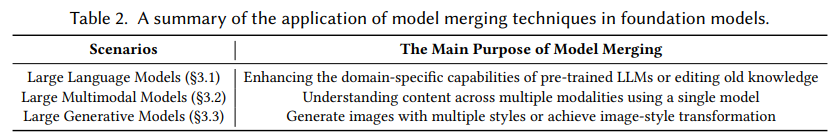
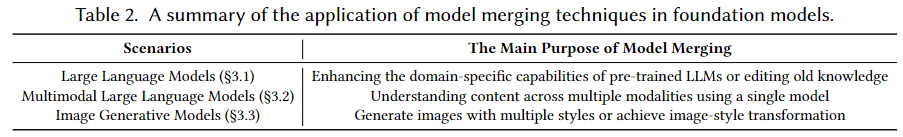
update structure

diff --git a/README.md b/README.md
@@ -1,8 +1,8 @@
-# Awesome-Model-Merging-in-Machine-Learning
+# Awesome-Model-Merging-Methods-Theories-Applications
 [![Awesome](https://awesome.re/badge.svg)]()
 <img src="https://img.shields.io/badge/Contributions-Welcome-278ea5" alt=""/>
 
-A comprehensive list of papers about **'[Model Merging in LLMs, LMMs, LGMs and Beyond: Methods, Theories, Applications and Opportunities. Arxiv, 2024.]()'**.
+A comprehensive list of papers about **'[Model Merging in LLMs, MLLMs, and Beyond: Methods, Theories, Applications and Opportunities. Arxiv, 2024.]()'**.
 
 ## Abstract
 > Model merging is an efficient empowerment technique in the machine learning community that does not require the collection of raw training data and does not require expensive computation. As model merging becomes increasingly prevalent across various fields, it is crucial to understand the available model merging techniques comprehensively. However, there is a significant gap in the literature regarding a systematic and thorough review of these techniques. To address this gap, this survey provides a comprehensive overview of model merging methods and theories, their applications in various domains and settings, and future research directions. Specifically, we first propose a new taxonomic approach that exhaustively discusses existing model merging methods. Secondly, we discuss the application of model merging techniques in large language models, large multimodal models, large generative models and 10+ machine learning settings, including continual learning, multi-task learning, few-shot learning, etc. Finally, we highlight the remaining challenges of model merging and discuss future research directions.
@@ -16,7 +16,7 @@ A comprehensive list of papers about **'[Model Merging in LLMs, LMMs, LGMs and B
 If you find our paper or this resource helpful, please consider cite:
 ```
 @article{Survery_ModelMerging_2024,
-  title={Model Merging in LLMs, LMMs, LGMs and Beyond: Methods, Theories, Applications and Opportunities},
+  title={Model Merging in LLMs, MLLMs, and Beyond: Methods, Theories, Applications and Opportunities},
   author={Yang, Enneng; Shen, Li; Guo, Guibing; Wang, Xingwei; Cao, Xiaochun; Zhang, Jie and Tao, Dacheng},
   journal={arXiv},
   year={2024}
@@ -28,51 +28,55 @@ Thanks!
 
 
 ## Framework
-- [Advanced Methods](#advanced-methods)
-  * [Pre-Merging Methods](#pre-merging-methods)
-    + [Linearization Fine-tuning](#linearization-fine-tuning)
-    + [Weight Alignment](#weight-alignment)
-    + [Architecture Transformation](#architecture-transformation)
-  * [During Merging Methods](#during-merging-methods)
-    + [Basic Merging Methods](#basic-merging-methods)
-    + [Weighted-based Merging Methods](#weighted-based-merging-methods)
-    + [Subspace-based Merging Methods](#subspace-based-merging-methods)
-    + [Routing-based Merging Methods](#routing-based-merging-methods)
-    + [Post-calibration based Methods](#post-calibration-based-methods)
-  * [Theories and Analysis of Model Merging](#theories-and-analysis-of-model-merging)
-- [Model Merging in Foundation Models](#model-merging-in-foundation-models)
-  * [Model Merging in Large Language Model](#model-merging-in-large-language-model)
-    + [Human Preference Alignment for LLMs](#human-preference-alignment-for-llms)
-    + [Detoxifcation of LLMs](#detoxifcation-of-llms)
-    + [Knowledge Unlearning of LLMs](#knowledge-unlearning-of-llms)
-    + [Faster Training of LLMs](#faster-training-of-llms)
-    + [Combine the Capabilities of Expert LLMs](#combine-the-capabilities-of-expert-llms)
-  * [Model Merging in Large Multi-Modal Model](#model-merging-in-large-multi-modal-model)
-    + [Model Merging for Multimodal Fusion](#model-merging-for-multimodal-fusion)
-    + [Model Merging for Cross-Modal Knowledge Transfer](#model-merging-for-cross-modal-knowledge-transfer)
-  * [Model Merging in Large Generative Models](#model-merging-in-large-generative-models)
-    + [Style Mixing in Generative Models](#style-mixing-in-generative-models)
-    + [Reducing Training Cost of Generative Models](#reducing-training-cost-of-generative-models)
-    + [Enhancing the Faithfulness of Diffusion Models](#enhancing-the-faithfulness-of-diffusion-models)
-- [Model Merging in Different Machine Learning Settings](#model-merging-in-different-machine-learning-settings)
-  * [Model Merging in Continual Learning](#model-merging-in-continual-learning)
-    + [Model Merging to Mitigate Catastrophic Forgetting](#model-merging-to-mitigate-catastrophic-forgetting)
-  * [Model Merging in Multi-Task/Multi-Objective/Multi-Domain/Auxiliary Learning](#model-merging-in-multi-task-multi-objective-multi-domain-auxiliary-learning)
-    + [Knowledge Transfer in Multi-Task Learning](#knowledge-transfer-in-multi-task-learning)
-    + [Knowledge Transfer in Multi-Objective Optimization](#knowledge-transfer-in-multi-objective-optimization)
-    + [Knowledge Transfer in Multi-Domain Learning](#knowledge-transfer-in-multi-domain-learning)
-    + [Knowledge Transfer in Auxiliary Learning](#knowledge-transfer-in-auxiliary-learning)
-  * [Model Merging in Out-of-Distribution/Domain Generalization](#model-merging-in-out-of-distribution-domain-generalization)
-    + [Model Merging for Better Out-of-Distribution Generalization](#model-merging-for-better-out-of-distribution-generalization)
-    + [Model Merging for Better Domain Generalization](#model-merging-for-better-domain-generalization)
-  * [Model Merging in Federated Learning](#model-merging-in-federated-learning)
-    + [Model Merging for Local Knowledge Aggregation](#model-merging-for-local-knowledge-aggregation)
-  * [Model Merging in Zero-shot/Few-shot Learning](#model-merging-in-zero-shot-few-shot-learning)
-    + [Model Merging for Cross-task Generalization in Zero-shot Learning](#model-merging-for-cross-task-generalization-in-zero-shot-learning)
-    + [Model Merging for Cross-task Generalization in Few-shot Learning](#model-merging-for-cross-task-generalization-in-few-shot-learning)
-  * [Model Merging in Adversarial Learning](#model-merging-in-adversarial-learning)
-    + [Model Merging as an Attack](#model-merging-as-an-attack)
-    + [Model Merging as a Defense](#model-merging-as-a-defense)
+- [Awesome-Model-Merging-Methods-Theories-Applications](#awesome-model-merging-methods-theories-applications)
+  * [Abstract](#abstract)
+  * [Citation](#citation)
+  * [Framework](#framework)
+  * [Advanced Methods](#advanced-methods)
+    + [Pre-Merging Methods](#pre-merging-methods)
+      - [Linearization Fine-tuning](#linearization-fine-tuning)
+      - [Weight Alignment](#weight-alignment)
+      - [Architecture Transformation](#architecture-transformation)
+    + [During Merging Methods](#during-merging-methods)
+      - [Basic Merging Methods](#basic-merging-methods)
+      - [Weighted-based Merging Methods](#weighted-based-merging-methods)
+      - [Subspace-based Merging Methods](#subspace-based-merging-methods)
+      - [Routing-based Merging Methods](#routing-based-merging-methods)
+      - [Post-calibration based Methods](#post-calibration-based-methods)
+    + [Theories and Analysis of Model Merging](#theories-and-analysis-of-model-merging)
+  * [Application of Model Merging in Foundation Models](#application-of-model-merging-in-foundation-models)
+    + [Model Merging in Large Language Model](#model-merging-in-large-language-model)
+      - [Human Preference Alignment for LLMs](#human-preference-alignment-for-llms)
+      - [Detoxifcation of LLMs](#detoxifcation-of-llms)
+      - [Knowledge Unlearning of LLMs](#knowledge-unlearning-of-llms)
+      - [Faster Training of LLMs](#faster-training-of-llms)
+      - [Combine the Capabilities of Expert LLMs](#combine-the-capabilities-of-expert-llms)
+    + [Model Merging in Multimodal Large Language Models](#model-merging-in-multimodal-large-language-models)
+      - [Model Merging for Multimodal Fusion](#model-merging-for-multimodal-fusion)
+      - [Model Merging for Cross-Modal Knowledge Transfer](#model-merging-for-cross-modal-knowledge-transfer)
+    + [Model Merging in Image Generative Models](#model-merging-in-image-generative-models)
+      - [Style Mixing in Generative Models](#style-mixing-in-generative-models)
+      - [Reducing Training Cost of Generative Models](#reducing-training-cost-of-generative-models)
+      - [Enhancing the Faithfulness of Diffusion Models](#enhancing-the-faithfulness-of-diffusion-models)
+  * [Application of Model Merging in Different Machine Learning Subfields](#application-of-model-merging-in-different-machine-learning-subfields)
+    + [Model Merging in Continual Learning](#model-merging-in-continual-learning)
+      - [Model Merging to Mitigate Catastrophic Forgetting](#model-merging-to-mitigate-catastrophic-forgetting)
+    + [Model Merging in Multi-Task/Multi-Objective/Multi-Domain/Auxiliary Learning](#model-merging-in-multi-task-multi-objective-multi-domain-auxiliary-learning)
+      - [Knowledge Transfer in Multi-Task Learning](#knowledge-transfer-in-multi-task-learning)
+      - [Knowledge Transfer in Multi-Objective Optimization](#knowledge-transfer-in-multi-objective-optimization)
+      - [Knowledge Transfer in Multi-Domain Learning](#knowledge-transfer-in-multi-domain-learning)
+      - [Knowledge Transfer in Auxiliary Learning](#knowledge-transfer-in-auxiliary-learning)
+    + [Model Merging in Out-of-Distribution/Domain Generalization](#model-merging-in-out-of-distribution-domain-generalization)
+      - [Model Merging for Better Out-of-Distribution Generalization](#model-merging-for-better-out-of-distribution-generalization)
+      - [Model Merging for Better Domain Generalization](#model-merging-for-better-domain-generalization)
+    + [Model Merging in Federated Learning](#model-merging-in-federated-learning)
+      - [Model Merging for Local Knowledge Aggregation](#model-merging-for-local-knowledge-aggregation)
+    + [Model Merging in Zero-shot/Few-shot Learning](#model-merging-in-zero-shot-few-shot-learning)
+      - [Model Merging for Cross-task Generalization in Zero-shot Learning](#model-merging-for-cross-task-generalization-in-zero-shot-learning)
+      - [Model Merging for Cross-task Generalization in Few-shot Learning](#model-merging-for-cross-task-generalization-in-few-shot-learning)
+    + [Model Merging in Adversarial Learning](#model-merging-in-adversarial-learning)
+      - [Model Merging as an Attack](#model-merging-as-an-attack)
+      - [Model Merging as a Defense](#model-merging-as-a-defense)
 
 ## Advanced Methods
 <center>
@@ -199,7 +203,7 @@ Thanks!
 
 
 
-## Model Merging in Foundation Models
+## Application of Model Merging in Foundation Models
 <center>
 <img src="./imgs/applications_lms.png" alt="Model Merging" width="800"/>
 </center>
@@ -259,8 +263,8 @@ Thanks!
   | [MetaGPT: Merging Large Language Models Using Model Exclusive Task Arithmetic](https://arxiv.org/pdf/2406.11385) | 2024 | Arxiv |
 
 
-  ### Model Merging in Large Multi-Modal Model
-  #### Model Merging for Multimodal Fusion
+### Model Merging in Multimodal Large Language Models
+#### Model Merging for Multimodal Fusion
   | **Paper Title** | **Year** | **Conference/Journal** |
   | --------------- | :----: | :----: |
   | [Jointly training large autoregressive multimodal models](https://openreview.net/pdf?id=5jcav5RcKw) | 2024 | ICLR |
@@ -268,7 +272,7 @@ Thanks!
   | [An Empirical Study of Multimodal Model Merging](https://aclanthology.org/2023.findings-emnlp.105.pdf) | 2023  | EMNLP |
   | [UnIVAL: Unified Model for Image, Video, Audio and Language Tasks](https://arxiv.org/pdf/2307.16184) | 2023 |  TMLR |
 
-  #### Model Merging for Cross-Modal Knowledge Transfer
+#### Model Merging for Cross-Modal Knowledge Transfer
   | **Paper Title** | **Year** | **Conference/Journal** |
   | --------------- | :----: | :----: |
   | [Multimodal Attention Merging for Improved Speech Recognition and Audio Event Classification](https://arxiv.org/pdf/2312.14378) |  2024 | ICASSP Workshop  |
@@ -276,7 +280,7 @@ Thanks!
 
 
 
-### Model Merging in Large Generative Models
+### Model Merging in Image Generative Models
 #### Style Mixing in Generative Models
 | **Paper Title** | **Year** | **Conference/Journal** |
 | --------------- | :----: | :----: |
@@ -302,7 +306,7 @@ Thanks!
 
 
 
-## Model Merging in Different Machine Learning Settings
+## Application of Model Merging in Different Machine Learning Subfields
 <center>
 <img src="./imgs/applications_mls.png" alt="Model Merging" width="800"/>
 </center>
